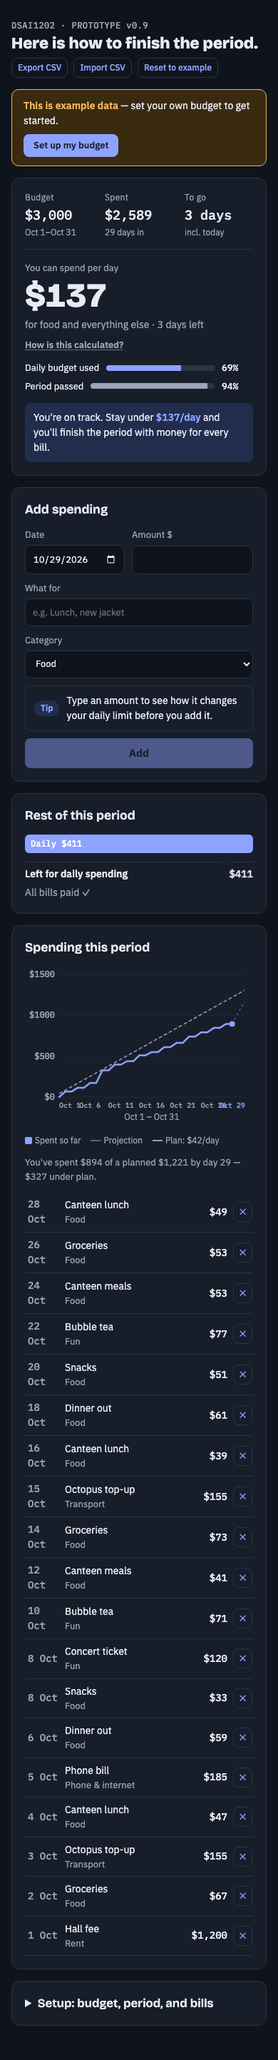
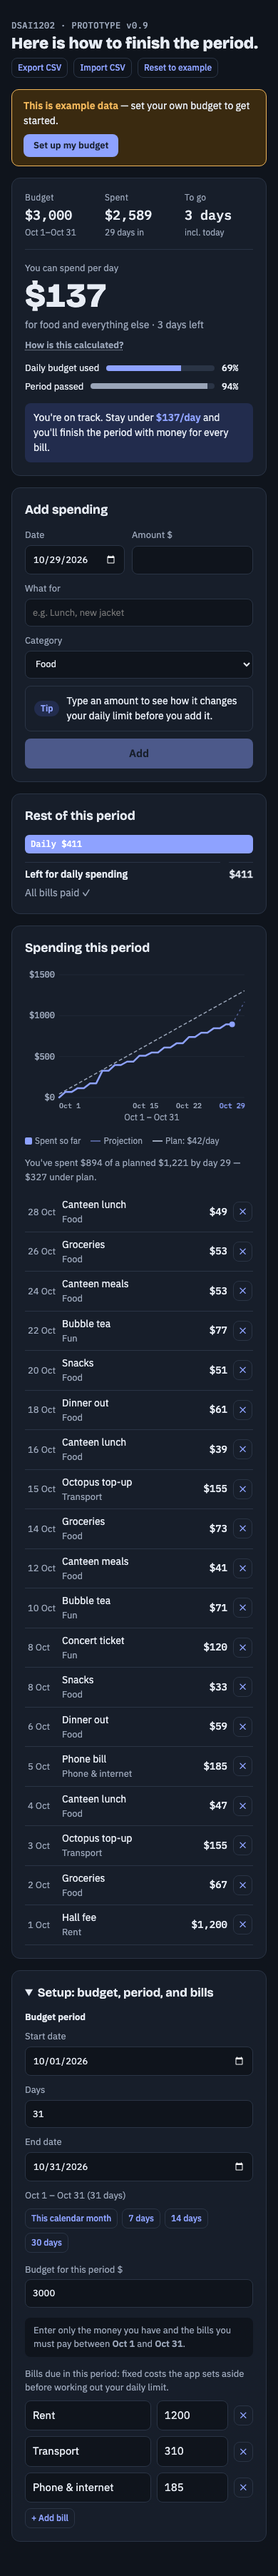
Fix 5 chart/mobile issues in v0.9: labels, axes, large budgets
1. Chart x-axis: adaptive label algorithm — fewer labels on narrow
   screens, greedy placement with overlap detection
2. Mobile Setup period grid: confirmed single-column at ≤599px works
3. Future/empty chart: draw y-axis and dashed plan line even with no
   spending data
4. Spending list dates: widen column to 56px so dates stay on one line
5. Large-budget chart: replace hardcoded yStep=500 with niceStep()
   that picks from [1,2,2.5,5,10]×magnitude (max 5–6 labels),
   compact "$5k"/"$12.5k" format via fmtDollar()

Tested at 390px and 1280px with $200/7d, $3k/31d, $17k/56d, and
future period. Zero overflows. Functional tests pass (period fields,
quick buttons, add/remove bill).

diff --git a/index.html b/index.html
@@ -109,6 +109,7 @@ details summary{cursor:pointer;font-family:var(--f-display);font-weight:600;font
 .period-hint{font-size:13px;color:var(--muted);background:var(--bg);border-radius:8px;padding:8px 12px}
 .period-grid{display:grid;grid-template-columns:1fr 80px 1fr;gap:8px;align-items:end}
 .period-grid label{min-width:0}
+@media (max-width:599px){.period-grid{grid-template-columns:1fr;gap:10px}.period-grid label{width:100%}}
 .period-summary{font-size:13px;color:var(--muted);margin-top:2px}
 </style>
 </head>
@@ -443,8 +444,8 @@ function render(){
   const rows=periodLog().map((e,i)=>({e,i:S.log.indexOf(e)})).sort((a,b)=>b.e.date.localeCompare(a.e.date));
   $("logBody").innerHTML=rows.map(({e,i})=>{
     const d=parseISO(e.date);
-    const dayLabel=`${d.getDate()} ${d.toLocaleString("en-US",{month:"short"})}`;
-    return `<tr><td class="num muted" style="width:52px">${dayLabel}</td><td>${esc(e.desc)}<div class="small muted">${esc(e.cat)}</div></td><td class="r num" style="width:68px">${money(e.amt)}</td><td class="r" style="width:32px"><button class="ghost tiny" type="button" data-del="${i}" aria-label="Delete">\u2715</button></td></tr>`;
+    const dayLabel=`${d.getDate()}\u00A0${d.toLocaleString("en-US",{month:"short"})}`;
+    return `<tr><td class="muted small" style="width:56px;white-space:nowrap">${dayLabel}</td><td>${esc(e.desc)}<div class="small muted">${esc(e.cat)}</div></td><td class="r num" style="width:68px">${money(e.amt)}</td><td class="r" style="width:32px"><button class="ghost tiny" type="button" data-del="${i}" aria-label="Delete">\u2715</button></td></tr>`;
   }).join("")||`<tr><td class="muted" colspan="4">Nothing added yet.</td></tr>`;
 
   // setup fields
@@ -528,10 +529,20 @@ $("addForm").addEventListener("submit",ev=>{ev.preventDefault();
   $("amt").value="";$("desc").value="";save();render();});
 
 /* ---- Cumulative spending chart (SVG) ---- */
-function niceMax(v){
-  if(v<=0)return 100;
-  const step=v<=200?50:v<=500?100:v<=1000?200:v<=2000?500:500;
-  return Math.ceil(v/step)*step;
+function niceStep(maxVal,maxTicks){
+  if(maxVal<=0) return {step:50,ceil:maxTicks*50};
+  const raw=maxVal/maxTicks;
+  const mag=Math.pow(10,Math.floor(Math.log10(raw)));
+  const nice=[1,2,2.5,5,10];
+  let step=nice.find(n=>n*mag>=raw)*mag;
+  return {step,ceil:Math.ceil(maxVal/step)*step};
+}
+function fmtDollar(v){
+  if(v>=1000){
+    const k=v/1000;
+    return "$"+(k%1===0?k:k.toFixed(1))+"k";
+  }
+  return "$"+v;
 }
 function renderChart(){
   const DAYS=periodDays();
@@ -556,17 +567,21 @@ function renderChart(){
   const actualDays=periodNotStarted()?0:Math.min(todayIdx+1,DAYS);
   const cumProject=[];
   if(!periodHasEnded()&&actualDays<DAYS){
-    for(let i=actualDays;i<DAYS;i++) cumProject.push(cumActual[actualDays-1]+currentDaily*(i-actualDays+1));
+    const base=actualDays>0?cumActual[actualDays-1]:0;
+    for(let i=actualDays;i<DAYS;i++) cumProject.push(base+currentDaily*(i-actualDays+1));
   }
 
-  const maxVal=Math.max(cumPlan[DAYS-1]||0,cumActual[actualDays-1]||0+(cumProject.length?cumProject[cumProject.length-1]-(cumActual[actualDays-1]||0):0),1);
-  const ceilMax=niceMax(maxVal*1.1);
+  const actualMax=actualDays>0?cumActual[actualDays-1]:0;
+  const projMax=cumProject.length?cumProject[cumProject.length-1]:0;
+  const maxVal=Math.max(cumPlan[DAYS-1]||0,actualMax,projMax,1);
+  const {step:yStep,ceil:ceilMax}=niceStep(maxVal*1.1,5);
   const cs=getComputedStyle(document.documentElement);
   const accent=cs.getPropertyValue("--accent").trim();
   const muted=cs.getPropertyValue("--muted").trim();
   const linec=cs.getPropertyValue("--line").trim();
   const containerW=$("chartWrap").clientWidth||500;
-  const LEFT=48,RIGHT=12,TOP=12,BOT=36;
+  const yLabelW=ceilMax>=100000?56:ceilMax>=10000?52:ceilMax>=1000?44:40;
+  const LEFT=yLabelW+6,RIGHT=12,TOP=12,BOT=36;
   const W=containerW;
   const H=220;
   const plotW=W-LEFT-RIGHT,plotH=H-TOP-BOT;
@@ -574,17 +589,19 @@ function renderChart(){
   const cy=v=>TOP+plotH-plotH*(Math.min(v,ceilMax)/ceilMax);
   const FONT=`font-family="var(--f-num)"`;
   let svg=`<svg xmlns="http://www.w3.org/2000/svg" width="${W}" height="${H}" role="img" aria-label="Cumulative spending chart" style="cursor:default">`;
-  // y-axis
-  const yStep=ceilMax<=200?50:ceilMax<=500?100:ceilMax<=1000?200:500;
+  // y-axis (max ~6 labels)
   for(let v=0;v<=ceilMax;v+=yStep){
     const y=cy(v);
     svg+=`<line x1="${LEFT}" y1="${y}" x2="${W-RIGHT}" y2="${y}" stroke="${linec}" stroke-width="0.5"/>`;
-    svg+=`<text x="${LEFT-6}" y="${y+4}" fill="${muted}" font-size="12" ${FONT} text-anchor="end">$${v}</text>`;
+    svg+=`<text x="${LEFT-6}" y="${y+4}" fill="${muted}" font-size="12" ${FONT} text-anchor="end">${fmtDollar(v)}</text>`;
   }
-  // plan line
+  // plan line (always draw if budget > bills, even for future/empty periods)
   if(plannedDaily>0){
     let pts="";for(let i=0;i<DAYS;i++) pts+=(i?'L':'M')+`${cx(i)},${cy(cumPlan[i])}`;
     svg+=`<path d="${pts}" fill="none" stroke="${muted}" stroke-width="1.5" stroke-dasharray="5,3"/>`;
+  } else if(DAYS>0){
+    // still draw $0 baseline
+    svg+=`<line x1="${LEFT}" y1="${cy(0)}" x2="${W-RIGHT}" y2="${cy(0)}" stroke="${muted}" stroke-width="1.5" stroke-dasharray="5,3"/>`;
   }
   // actual spent line
   if(actualDays>=1){
@@ -594,23 +611,45 @@ function renderChart(){
   }
   // projection
   if(cumProject.length>0){
-    let pts=`M${cx(actualDays-1)},${cy(cumActual[actualDays-1])}`;
+    const projBase=actualDays>0?cumActual[actualDays-1]:0;
+    const startIdx=Math.max(0,actualDays-1);
+    let pts=`M${cx(startIdx)},${cy(projBase)}`;
     for(let i=0;i<cumProject.length;i++) pts+=`L${cx(actualDays+i)},${cy(cumProject[i])}`;
     svg+=`<path d="${pts}" fill="none" stroke="${accent}" stroke-width="1.5" stroke-dasharray="3,4" opacity="0.5"/>`;
   }
-  // x-axis: real dates
-  const labelEvery=DAYS<=8?1:DAYS<=16?2:DAYS<=23?3:5;
-  for(let i=0;i<DAYS;i++){
-    const d=addDays(pStart,i);
-    const isToday=toISO(d)===TODAY_ISO;
-    const isRegular=(i%labelEvery===0)||i===0||i===DAYS-1;
-    if(!isToday&&isRegular&&todayIdx>=0&&Math.abs(i-todayIdx)<=2)continue;
-    if(!isToday&&isRegular&&DAYS-1-i>0&&DAYS-1-i<labelEvery)continue;
-    const show=isToday||isRegular;
-    if(show){
+  // x-axis: adaptive date labels — never overlapping
+  const LBL_W=48; // approx width of "Oct 29" label in px
+  const GAP=6;
+  // How many labels can fit?
+  const maxLabels=Math.max(2,Math.floor(plotW/(LBL_W+GAP)));
+  // Build candidate list: priority order (first, today, last, then evenly spaced)
+  const candidates=[];
+  candidates.push({i:0,pri:0});
+  if(todayIdx>=0&&todayIdx<DAYS&&todayIdx!==0&&todayIdx!==DAYS-1) candidates.push({i:todayIdx,pri:1});
+  candidates.push({i:DAYS-1,pri:2});
+  // Evenly spaced labels — interval adapts to period length and chart width
+  const targetCount=Math.min(maxLabels,DAYS);
+  const interval=Math.max(1,Math.ceil(DAYS/targetCount));
+  for(let i=interval;i<DAYS-1;i+=interval) candidates.push({i,pri:3});
+  candidates.sort((a,b2)=>a.pri-b2.pri);
+  // Place labels greedily, checking for overlap
+  const placedBounds=[];
+  const LBL_HALF=LBL_W/2;
+  function labelBounds(idx){
+    const px=cx(idx);
+    if(idx===0) return [px,px+LBL_W];
+    if(idx===DAYS-1) return [px-LBL_W,px];
+    return [px-LBL_HALF,px+LBL_HALF];
+  }
+  for(const c of candidates){
+    const [l,r]=labelBounds(c.i);
+    if(placedBounds.every(([pl,pr])=>l>=pr+GAP||r<=pl-GAP)){
+      placedBounds.push([l,r]);
+      const d=addDays(pStart,c.i);
+      const isToday=todayIdx>=0&&c.i===todayIdx;
       const lbl=fmtShort(d);
-      const anchor=i===0?"start":i===DAYS-1?"end":"middle";
-      svg+=`<text x="${cx(i)}" y="${H-BOT+15}" fill="${isToday?accent:muted}" font-size="10" font-weight="${isToday?'600':'400'}" ${FONT} text-anchor="${anchor}">${lbl}</text>`;
+      const anchor=c.i===0?"start":c.i===DAYS-1?"end":"middle";
+      svg+=`<text x="${cx(c.i)}" y="${H-BOT+15}" fill="${isToday?accent:muted}" font-size="10" font-weight="${isToday?'600':'400'}" ${FONT} text-anchor="${anchor}">${lbl}</text>`;
     }
   }
   svg+=`<text x="${LEFT+plotW/2}" y="${H-4}" fill="${muted}" font-size="12" font-family="var(--f-body)" text-anchor="middle">${fmtShort(pStart)} \u2013 ${fmtShort(pEnd)}</text>`;

diff --git a/docs/ai-log.md b/docs/ai-log.md
@@ -82,3 +82,10 @@ AI did: near-complete rewrite of JS logic. Added period settings (start/end/days
 Problem / what we checked: Three rounds of review needed. (Round 1) Reported done but skipped 6 items: future periods, chart date format, example period length, .gitignore, testing-plan dates, migration test. (Round 2) Fixed all six but reported two as done that weren't: the "$0 of $0 by day 0" chart note still showed for future periods (condition was added but the screenshot clearly showed it), and the date input defaulted to today (Oct 29) even for a Nov period. Also: "starts on Nov 1" appeared 3 times (title + banner + blue box), date input was too narrow cutting off the year, example used 30 days not 31 for October. Petr caught all six from screenshots. (Round 3) Fixed all: hide chart note when `actualDays===0`, clamp date field to period bounds, deduplicate future-period messaging, widen date column to 140px, use calendar-month days for example, fix chart label overlap near end of month.
 What we decided and why: (Petr to fill)
 Lesson: (Petr to fill)
+
+## 2026-10-29 · Petr · Claude Code
+Asked AI to: fix 5 mobile/desktop issues found by the user — chart label overlap on mobile, Setup period fields overlapping at 390px, empty chart missing axes/plan line, date wrapping in spending list, chart breaking with budgets ≥$10k (40 y-axis labels piled on top of each other, x-axis labels overlapping for 56-day periods).
+AI did: (1) rewrote x-axis label algorithm with adaptive spacing based on chart width and period length, greedy placement with overlap detection; (2) confirmed mobile period grid was already single-column via media query; (3) added plan line rendering even when `actualDays===0`; (4) widened date column from 48px to 56px; (5) replaced fixed `niceMax`/`yStep` with `niceStep(maxVal, maxTicks=5)` that picks from [1,2,2.5,5,10]×magnitude, and added `fmtDollar` for "$5k"/"$12.5k" compact format. Tested with $200/7d, $3k/31d, $17k/56d, future period, and programmatic overflow checks at 390px and 1280px.
+Problem / what we checked: the root cause of issue 5 was that the old `yStep` was hardcoded to 500 for any value >$2000, producing 38 labels for a $19k ceiling. Previous AI sessions only tested with the $3k example data and never tried large budgets, so this was never caught. User found it by testing on their phone with real-world numbers. The `fmtDollar` function also had a rounding bug (`$13k` instead of `$12.5k` for $12,500) that was caught by unit-testing the function before committing.
+What we decided and why: (Petr to fill)
+Lesson: (Petr to fill)
